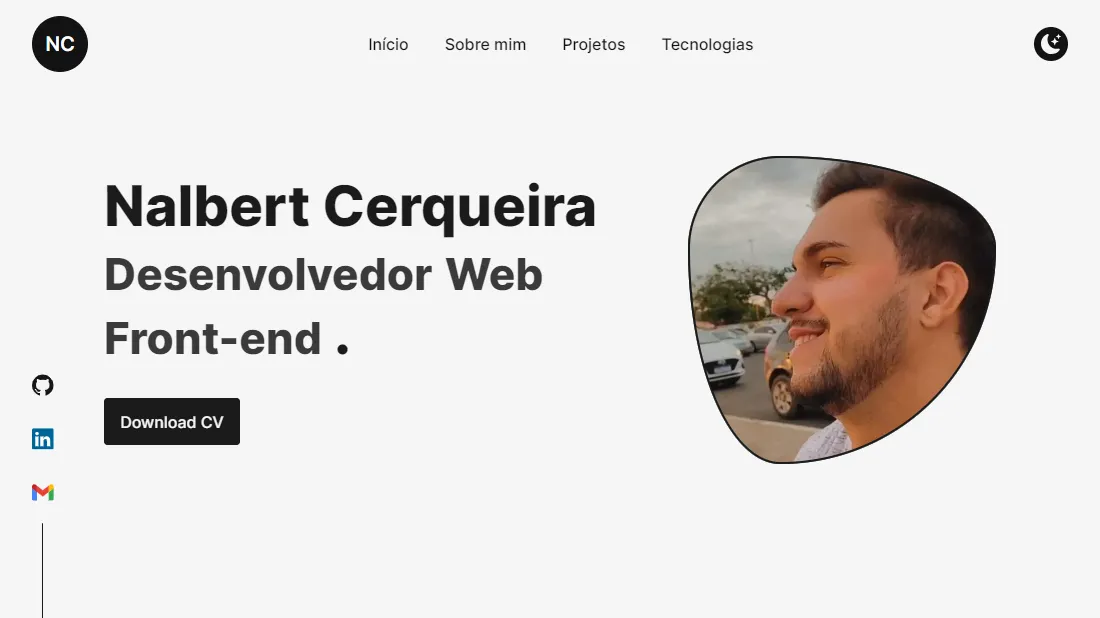
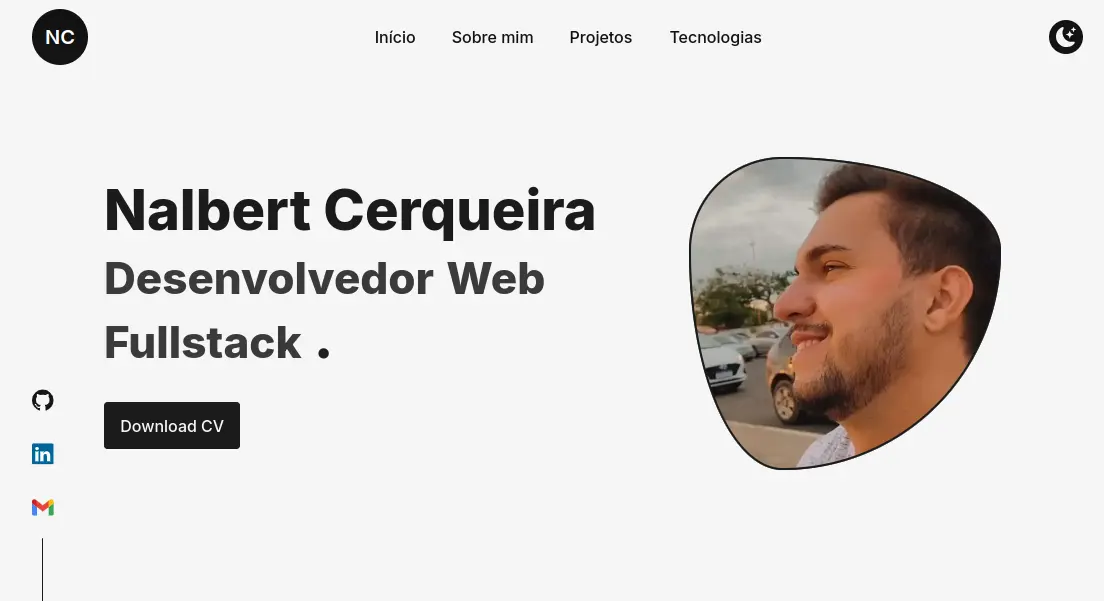
refactor: modify head's metadata

diff --git a/src/components/PageHead.tsx b/src/components/PageHead.tsx
@@ -4,17 +4,17 @@ export default function PageHead() {
             <meta charSet="UTF-8" />
             <meta httpEquiv="X-UA-Compatible" content="IE=edge" />
             <meta name="viewport" content="width=device-width, initial-scale=1.0, minimum-scale=1.0" />
-            <title>Nalbert Cerqueira | Desenvolvedor Web Front-end</title>
+            <title>Nalbert Cerqueira | Desenvolvedor Fullstack</title>
             <meta
                 name="description"
-                content="Desenvolvedor Front-end com experiência em React, NextJS, JavaScript, TypeScript, SASS, Tailwind CSS, NodeJS, Mongodb e APIs REST."
+                content="Desenvolvedor Fullstack com experiência em React, Next.js, TypeScript, TailwindCSS, Node.js, MySQL e Mongodb."
             />
-            <meta name="copyright" content="Nalbert Cerqueira 2023" />
+            <meta name="copyright" content="Nalbert Cerqueira 2024" />
             <meta name="twitter:card" content="summary_large_image" />
-            <meta name="twitter:title" content="Nalbert Cerqueira | Desenvolvedor Web Front-end" />
+            <meta name="twitter:title" content="Nalbert Cerqueira | Desenvolvedor Fullstack" />
             <meta
                 name="twitter:description"
-                content="Desenvolvedor Front-end com experiência em React, NextJS, JavaScript, TypeScript, SASS, Tailwind CSS, NodeJS, Mongodb e APIs REST."
+                content="Desenvolvedor Fullstack com experiência em React, Next.js, TypeScript, TailwindCSS, Node.js, MySQL e Mongodb."
             />
             <meta name="twitter:image" content="https://nalbertdev.com/imgs/preview.webp" />
             <meta property="og:image" content="https://nalbertdev.com/imgs/preview.webp" />
@@ -24,10 +24,10 @@ export default function PageHead() {
             <meta property="og:site_name" content="nalbertdev.com" />
             <meta property="og:url" content="https://nalbertdev.com" />
             <meta property="og:type" content="website" />
-            <meta property="og:title" content="Nalbert Cerqueira | Desenvolvedor Web Front-end" />
+            <meta property="og:title" content="Nalbert Cerqueira | Desenvolvedor Fullstack" />
             <meta
                 property="og:description"
-                content="Desenvolvedor Front-end com experiência em React, NextJS, JavaScript, TypeScript, SASS, Tailwind CSS, NodeJS, Mongodb e APIs REST."
+                content="Desenvolvedor Fullstack com experiência em React, Next.js, TypeScript, TailwindCSS, Node.js, MySQL e Mongodb."
             />
             <link rel="icon" type="image/svg+xml" href="/icon.svg" />
             <link rel="apple-touch-icon" type="image/svg+xml" href="/icon.svg" />
